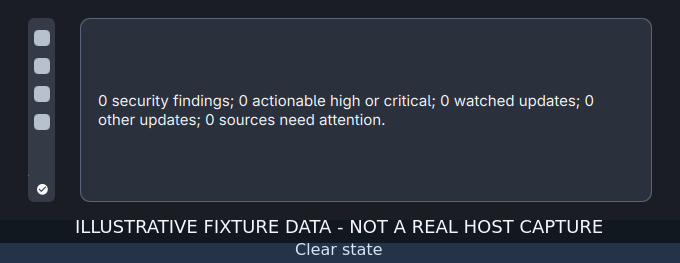
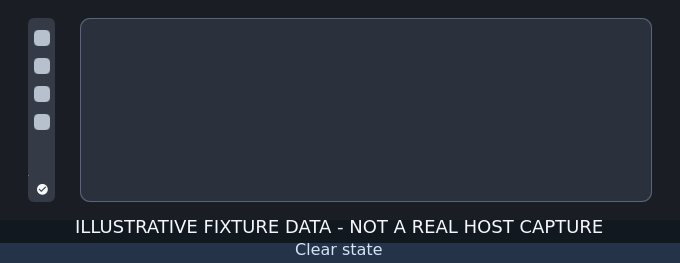
docs(preview): regenerate clear fixture evidence

Changed region(s): [[0.1235, 0.365, 0.8956, 0.4867]]

diff --git a/docs/screenshots/fixture-provenance.md b/docs/screenshots/fixture-provenance.md
@@ -3,4 +3,6 @@
 All images in this directory and the root `preview.png` are generated from the
 isolated QtQuick fixture harness by `scripts/qa/capture_todo27_fixture_preview.sh`.
 They contain invented state only, label themselves as illustrative fixture data,
-and are not real-host, compositor, or package-inventory captures.
+and are not real-host, compositor, or package-inventory captures. The capture
+fixture freezes refresh motion and strips variable PNG metadata so the committed
+preview bytes are reproducible.
